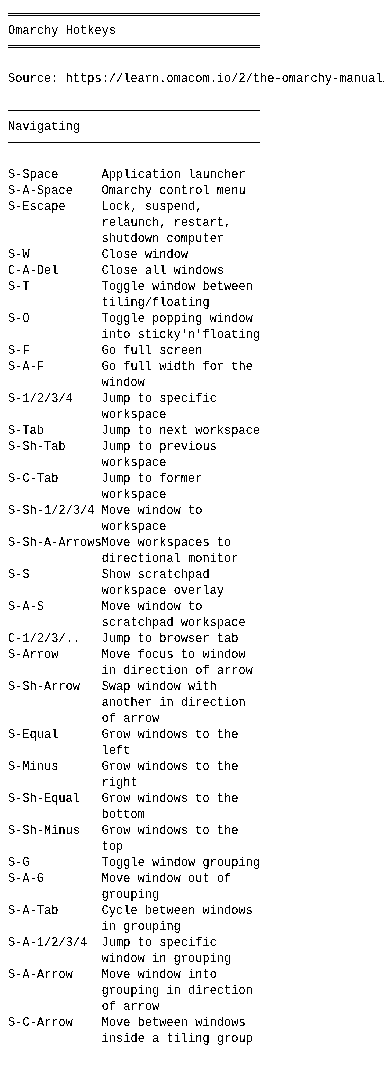
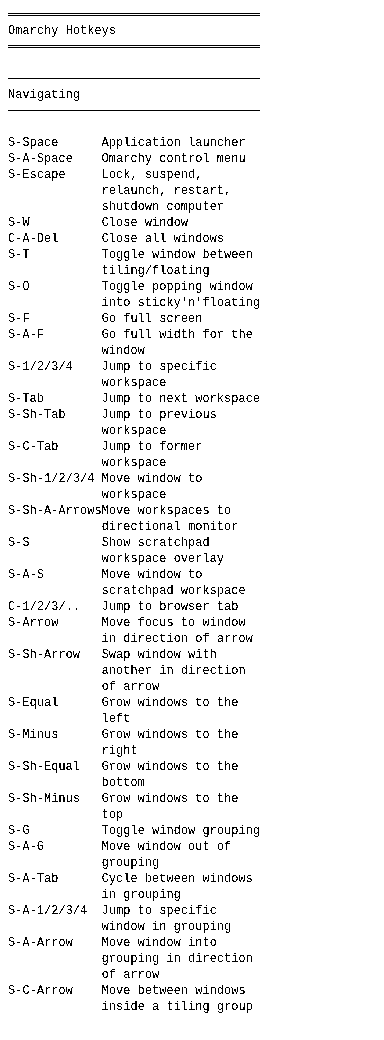
Remove source URL from txt output to maximize content per page

diff --git a/scripts/generate-markdown.ts b/scripts/generate-markdown.ts
@@ -131,11 +131,6 @@ async function generateText(
   headerLines.push(padRight(metadata.title, LINE_WIDTH));
   headerLines.push("═".repeat(LINE_WIDTH));
 
-  if (metadata.url) {
-    headerLines.push("");
-    headerLines.push("Source: " + metadata.url);
-  }
-
   let currentText = headerLines.join("\n") + "\n";
   let currentLineCount = countLines(currentText);
 
